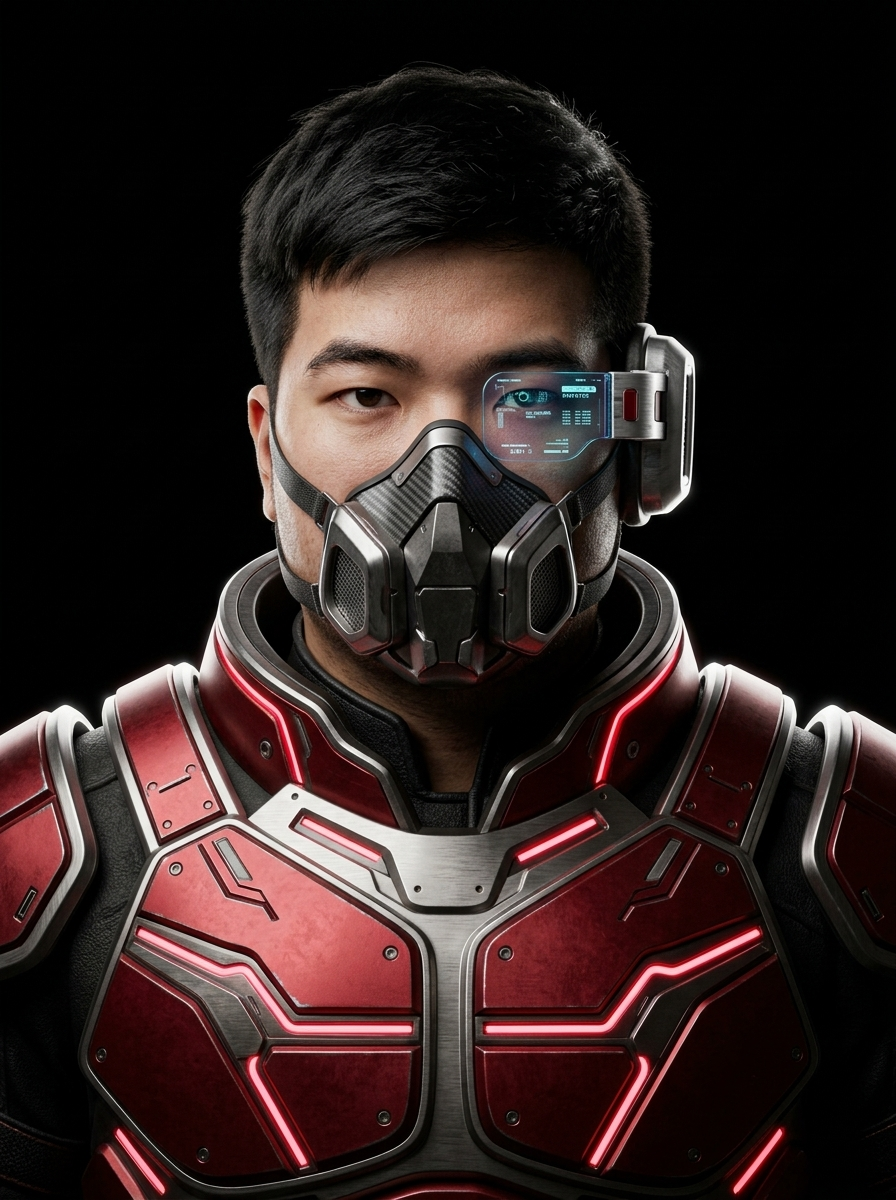
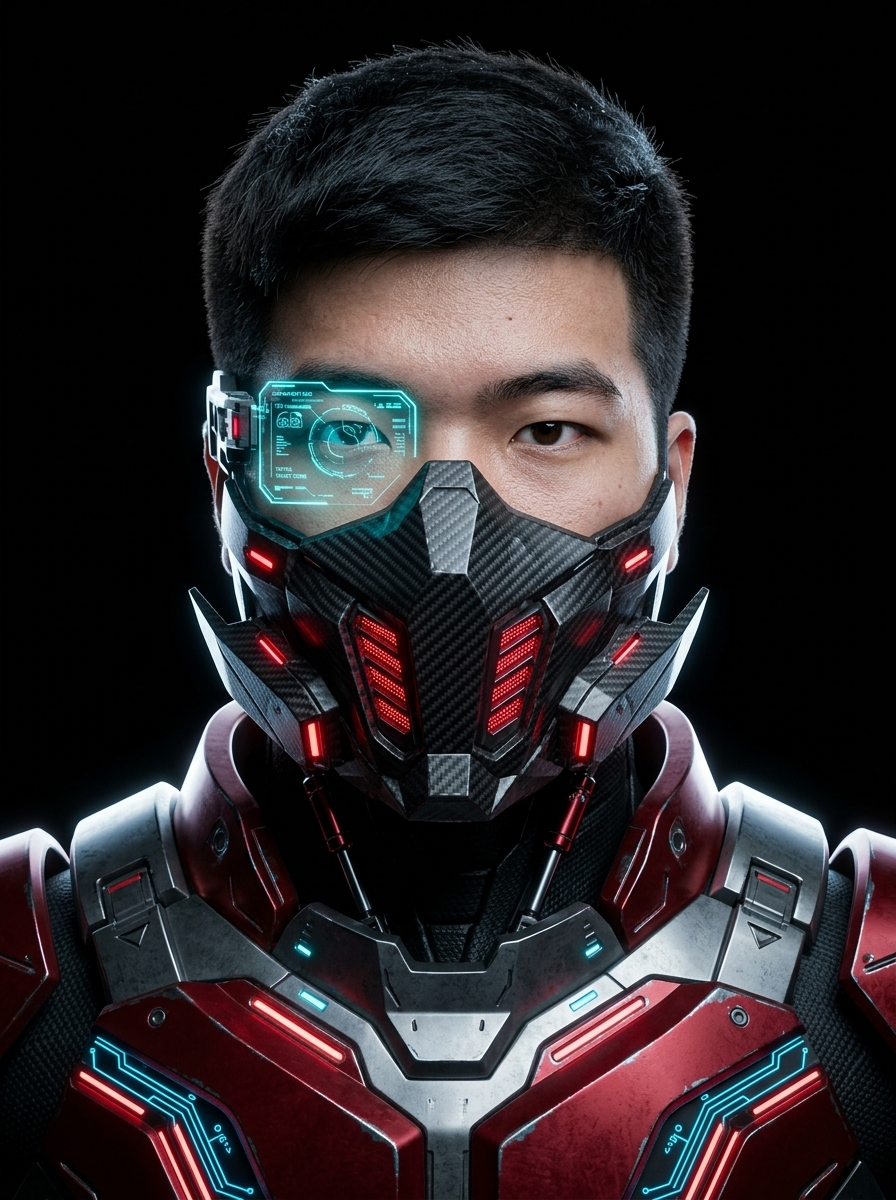
feat(portal): apply Option 2 badass stealth cyber assassin mask for Hoai Anh

diff --git a/View/src/components/portal/PortalMechaWarrior3DStage.vue b/View/src/components/portal/PortalMechaWarrior3DStage.vue
@@ -57,7 +57,7 @@ const pilots = [
     name: 'Phạm Ngọc Hoài Anh',
     callsign: 'DREADNOUGHT VORTEX',
     role: 'KỸ SƯ HẠ TẦNG ĐÁM MÂY & DEVOPS BẢO MẬT',
-    avatar: '/pilots/pilot_hoaianh_final.jpg?v=final',
+    avatar: '/pilots/pilot_hoaianh_v5.jpg?v=5',
     cockpit: '/cockpits/cockpit_orange.jpg',
     cockpitFilter: 'none',
     color: '#ef4444', // Crimson Red
